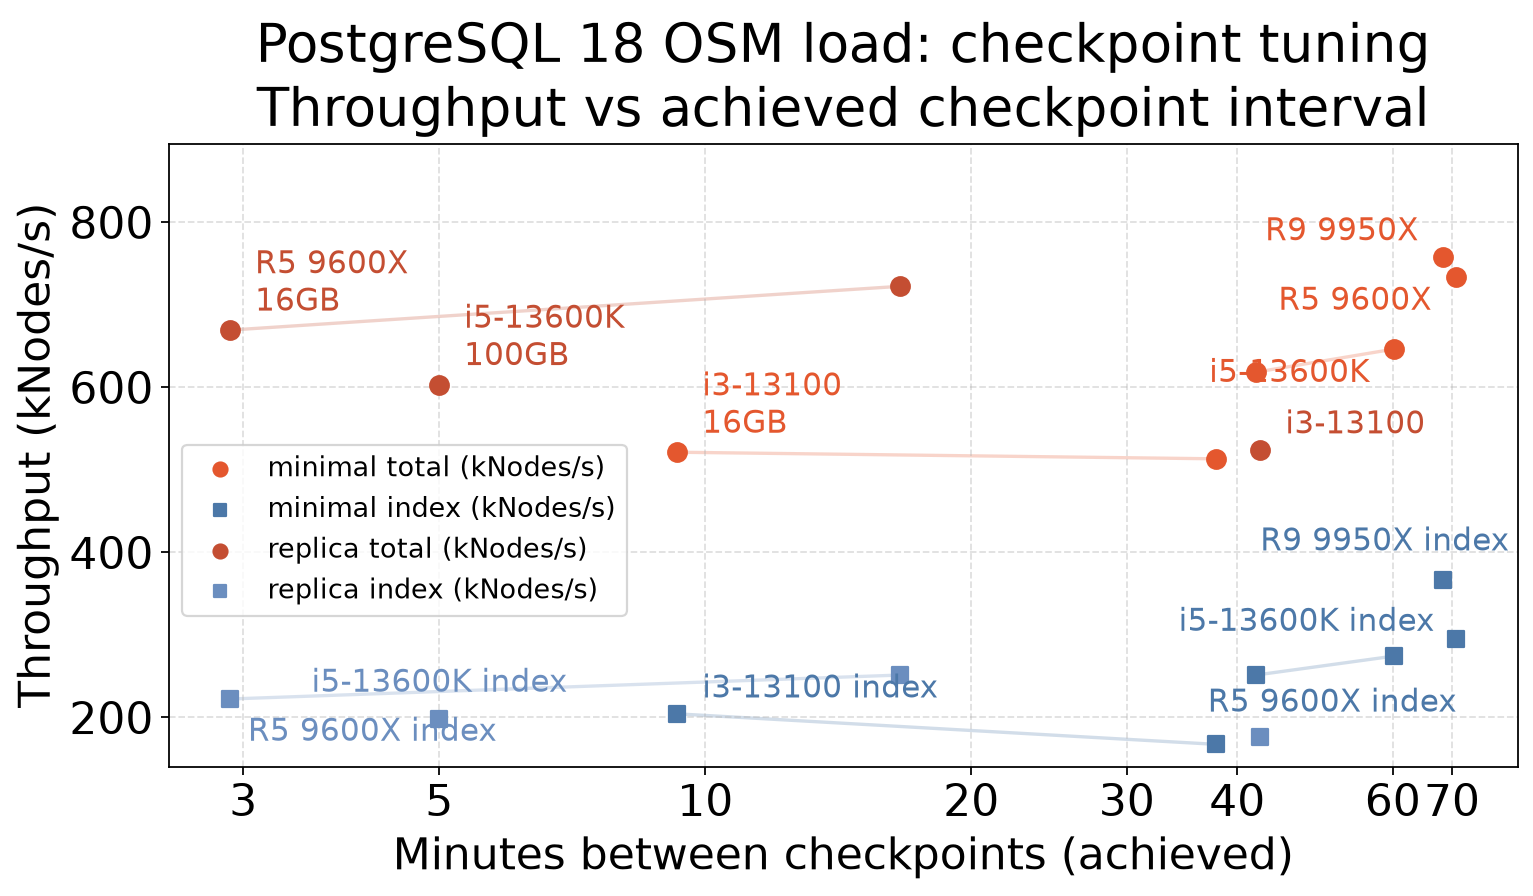
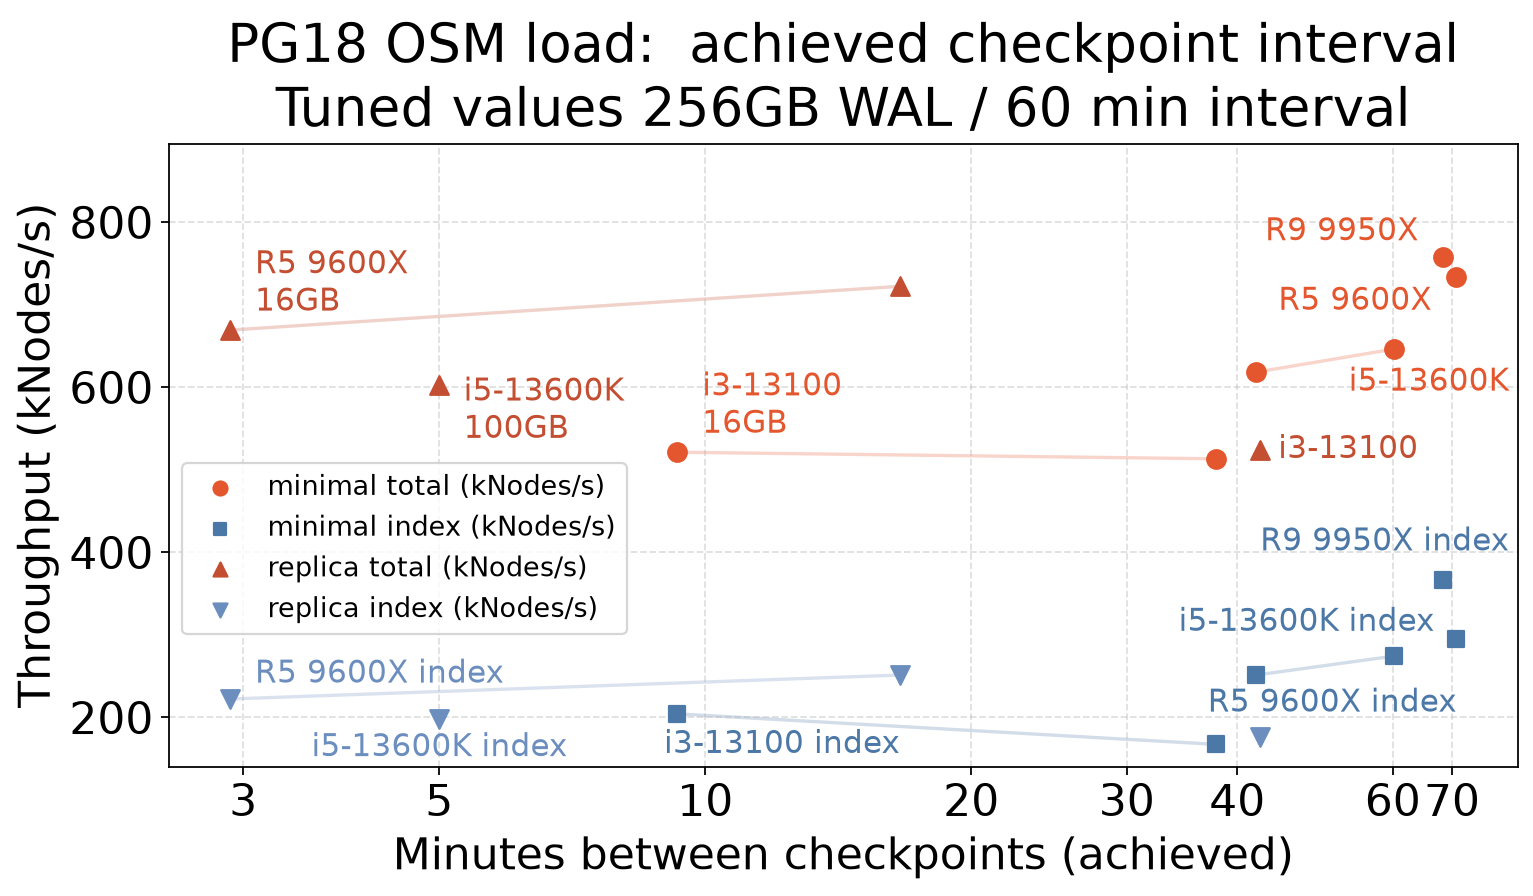
Distinguish replica checkpoint runs with triangles and finish label placement.

diff --git a/reports/osm-checkpoint.py b/reports/osm-checkpoint.py
@@ -23,7 +23,7 @@ from matplotlib.ticker import FixedLocator, NullLocator, ScalarFormatter
 from matplotlib.transforms import offset_copy
 
 sys.path.insert(0, str(Path(__file__).resolve().parent))
-from label_layout import place_point_labels
+from label_layout import LabelOffset, place_label_at_grid_bottom, place_point_labels
 from pg18_style import LEADERBOARD_LEGEND_FONTSIZE, SMALL_ANNOTATION_FONTSIZE, use_pg18_style
 from snapshot_table import load_snapshot_table
 
@@ -35,6 +35,8 @@ NODES_COLOR = "#e4572e"
 INDEX_COLOR = "#4c78a8"
 WAL_COLORS = {"minimal": NODES_COLOR, "replica": "#c44e32"}
 INDEX_WAL_COLORS = {"minimal": INDEX_COLOR, "replica": "#6b8ebf"}
+TOTAL_MARKERS = {"minimal": "o", "replica": "^"}
+INDEX_MARKERS = {"minimal": "s", "replica": "v"}
 
 
 DROP_CPUS = {
@@ -42,6 +44,11 @@ DROP_CPUS = {
     "Apple M4 Max",
     "Apple M4 Max Studio",
     "NVIDIA P4242",
+}
+
+CHECKPOINT_LABEL_OVERRIDES = {
+    "i5-13600K\n100GB": LabelOffset(11, 5, ha="left", va="top"),
+    "i3-13100": LabelOffset(8, 0, ha="left", va="center"),
 }
 
 
@@ -140,7 +147,7 @@ def plot_checkpoint(df: pd.DataFrame, output: Path, show: bool = False) -> None:
         ax.scatter(
             subset["chkp_mins"],
             subset["nodes_kips"],
-            marker="o",
+            marker=TOTAL_MARKERS[wal_level],
             s=70,
             color=WAL_COLORS[wal_level],
             label=f"{wal_level} total (kNodes/s)",
@@ -149,8 +156,8 @@ def plot_checkpoint(df: pd.DataFrame, output: Path, show: bool = False) -> None:
         ax.scatter(
             subset["chkp_mins"],
             subset["index_kips"],
-            marker="s",
-            s=55,
+            marker=INDEX_MARKERS[wal_level],
+            s=70 if wal_level == "replica" else 55,
             color=INDEX_WAL_COLORS[wal_level],
             label=f"{wal_level} index (kNodes/s)",
             zorder=3,
@@ -164,15 +171,15 @@ def plot_checkpoint(df: pd.DataFrame, output: Path, show: bool = False) -> None:
     ax.set_xlabel("Minutes between checkpoints (achieved)")
     ax.set_ylabel("Throughput (kNodes/s)")
     ax.set_title(
-        "PostgreSQL 18 OSM load: checkpoint tuning\n"
-        "Throughput vs achieved checkpoint interval"
+        "PG18 OSM load:  achieved checkpoint interval\n"
+        "Tuned values 256GB WAL / 60 min interval"
     )
     y_top = float(df["nodes_kips"].max())
     ax.set_ylim(140, y_top * 1.18)
     ax.grid(True, which="major", linestyle="--", alpha=0.4)
     ax.legend(
         loc="center left",
-        bbox_to_anchor=(0.0, 0.38),
+        bbox_to_anchor=(0.0, 0.35),
         fontsize=LEADERBOARD_LEGEND_FONTSIZE,
         markerscale=0.75,
     )
@@ -186,23 +193,45 @@ def plot_checkpoint(df: pd.DataFrame, output: Path, show: bool = False) -> None:
     ys: list[float] = []
     colors: list[str] = []
     for _, row in label_df.iterrows():
-        labels.append(series_label(row, "total"))
-        xs.append(float(row["chkp_mins"]))
-        ys.append(float(row["nodes_kips"]))
-        colors.append(WAL_COLORS[row["wal_level"]])
+        skip_i5_right = row["cpu"] == "i5-13600K" and float(row["chkp_mins"]) > 50
+        if not skip_i5_right:
+            labels.append(series_label(row, "total"))
+            xs.append(float(row["chkp_mins"]))
+            ys.append(float(row["nodes_kips"]))
+            colors.append(WAL_COLORS[row["wal_level"]])
         if row["cpu"] == "R9 9950X":
             continue
-        if row["cpu"] == "i3-13100" and float(row["chkp_mins"]) > 20:
+        if row["cpu"] == "i3-13100":
             continue
         if row["cpu"] == "R5 9600X" and float(row["chkp_mins"]) > 50:
             continue
-        if row["cpu"] == "i5-13600K" and float(row["chkp_mins"]) > 50:
+        if row["cpu"] == "i5-13600K":
             continue
         labels.append(series_label(row, "index"))
         xs.append(float(row["chkp_mins"]))
         ys.append(float(row["index_kips"]))
         colors.append(INDEX_WAL_COLORS[row["wal_level"]])
-    place_point_labels(ax, labels, xs, ys, colors, SMALL_ANNOTATION_FONTSIZE)
+    place_point_labels(
+        ax,
+        labels,
+        xs,
+        ys,
+        colors,
+        SMALL_ANNOTATION_FONTSIZE,
+        overrides=CHECKPOINT_LABEL_OVERRIDES,
+    )
+
+    i3_left = df[df["cpu"] == "i3-13100"].sort_values("chkp_mins").iloc[0]
+    place_label_at_grid_bottom(
+        ax,
+        float(i3_left["chkp_mins"]),
+        float(i3_left["index_kips"]),
+        series_label(i3_left, "index"),
+        INDEX_WAL_COLORS[i3_left["wal_level"]],
+        SMALL_ANNOTATION_FONTSIZE,
+        x_gap_points=-6,
+        align_fraction=0.04,
+    )
 
     r9 = df[df["cpu"] == "R9 9950X"].iloc[0]
     r9_index_trans = offset_copy(
@@ -233,7 +262,34 @@ def plot_checkpoint(df: pd.DataFrame, output: Path, show: bool = False) -> None:
         clip_on=True,
     )
 
+    i5_left = df[df["cpu"] == "i5-13600K"].sort_values("chkp_mins").iloc[0]
+    ax.annotate(
+        series_label(i5_left, "index"),
+        xy=(float(i5_left["chkp_mins"]), float(i5_left["index_kips"])),
+        xytext=(0, -6),
+        textcoords="offset points",
+        ha="center",
+        va="top",
+        fontsize=SMALL_ANNOTATION_FONTSIZE,
+        color=INDEX_WAL_COLORS[i5_left["wal_level"]],
+        clip_on=True,
+    )
+
     i5_right = df[df["cpu"] == "i5-13600K"].sort_values("chkp_mins").iloc[-1]
+    i5_total_trans = offset_copy(
+        ax.get_yaxis_transform(), fig=fig, x=-4, y=-15, units="points"
+    )
+    ax.text(
+        1.0,
+        float(i5_right["nodes_kips"]),
+        series_label(i5_right, "total"),
+        transform=i5_total_trans,
+        ha="right",
+        va="center",
+        fontsize=SMALL_ANNOTATION_FONTSIZE,
+        color=WAL_COLORS[i5_right["wal_level"]],
+        clip_on=True,
+    )
     ax.annotate(
         series_label(i5_right, "index"),
         xy=(float(i5_right["chkp_mins"]), float(i5_right["index_kips"])),
